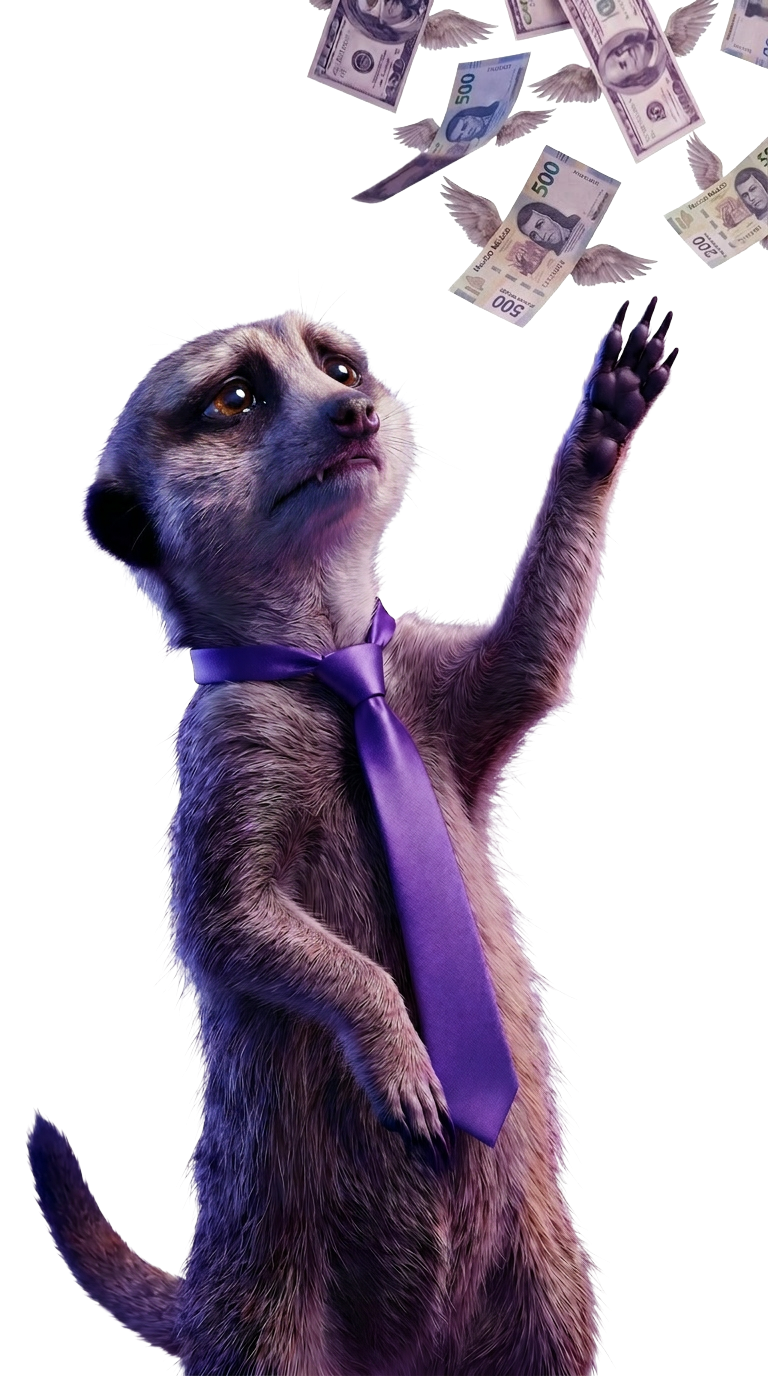
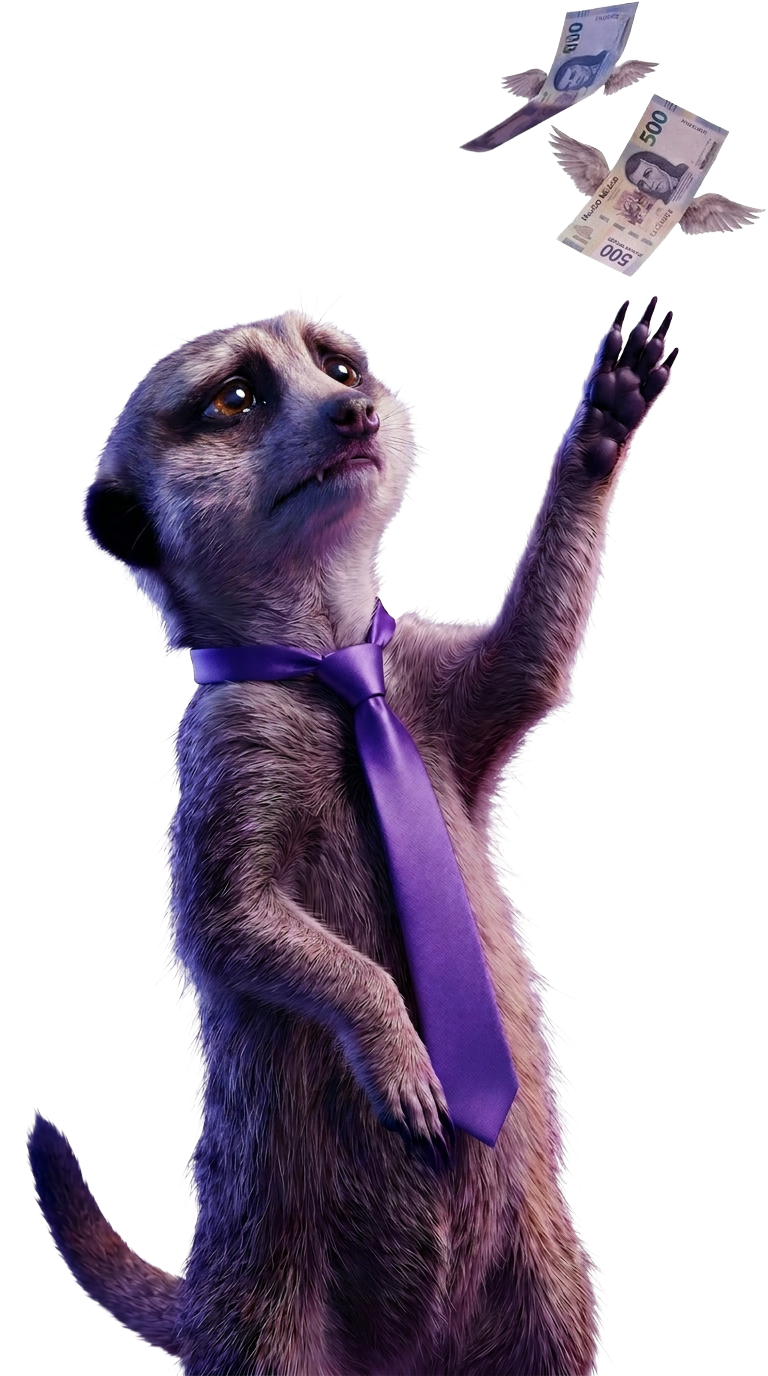
fix: update agent-money image, objectPosition top so bills show fully

Changed region(s): [[0.4062, 0.0, 1.0, 0.25]]

diff --git a/src/app/page.tsx b/src/app/page.tsx
@@ -281,7 +281,7 @@ export default function LandingPage() {
             alt=""
             fill
             sizes="(min-width: 1024px) 360px, 140px"
-            style={{ objectFit: 'contain', objectPosition: 'bottom center' }}
+            style={{ objectFit: 'contain', objectPosition: 'top center' }}
           />
         </div>
 